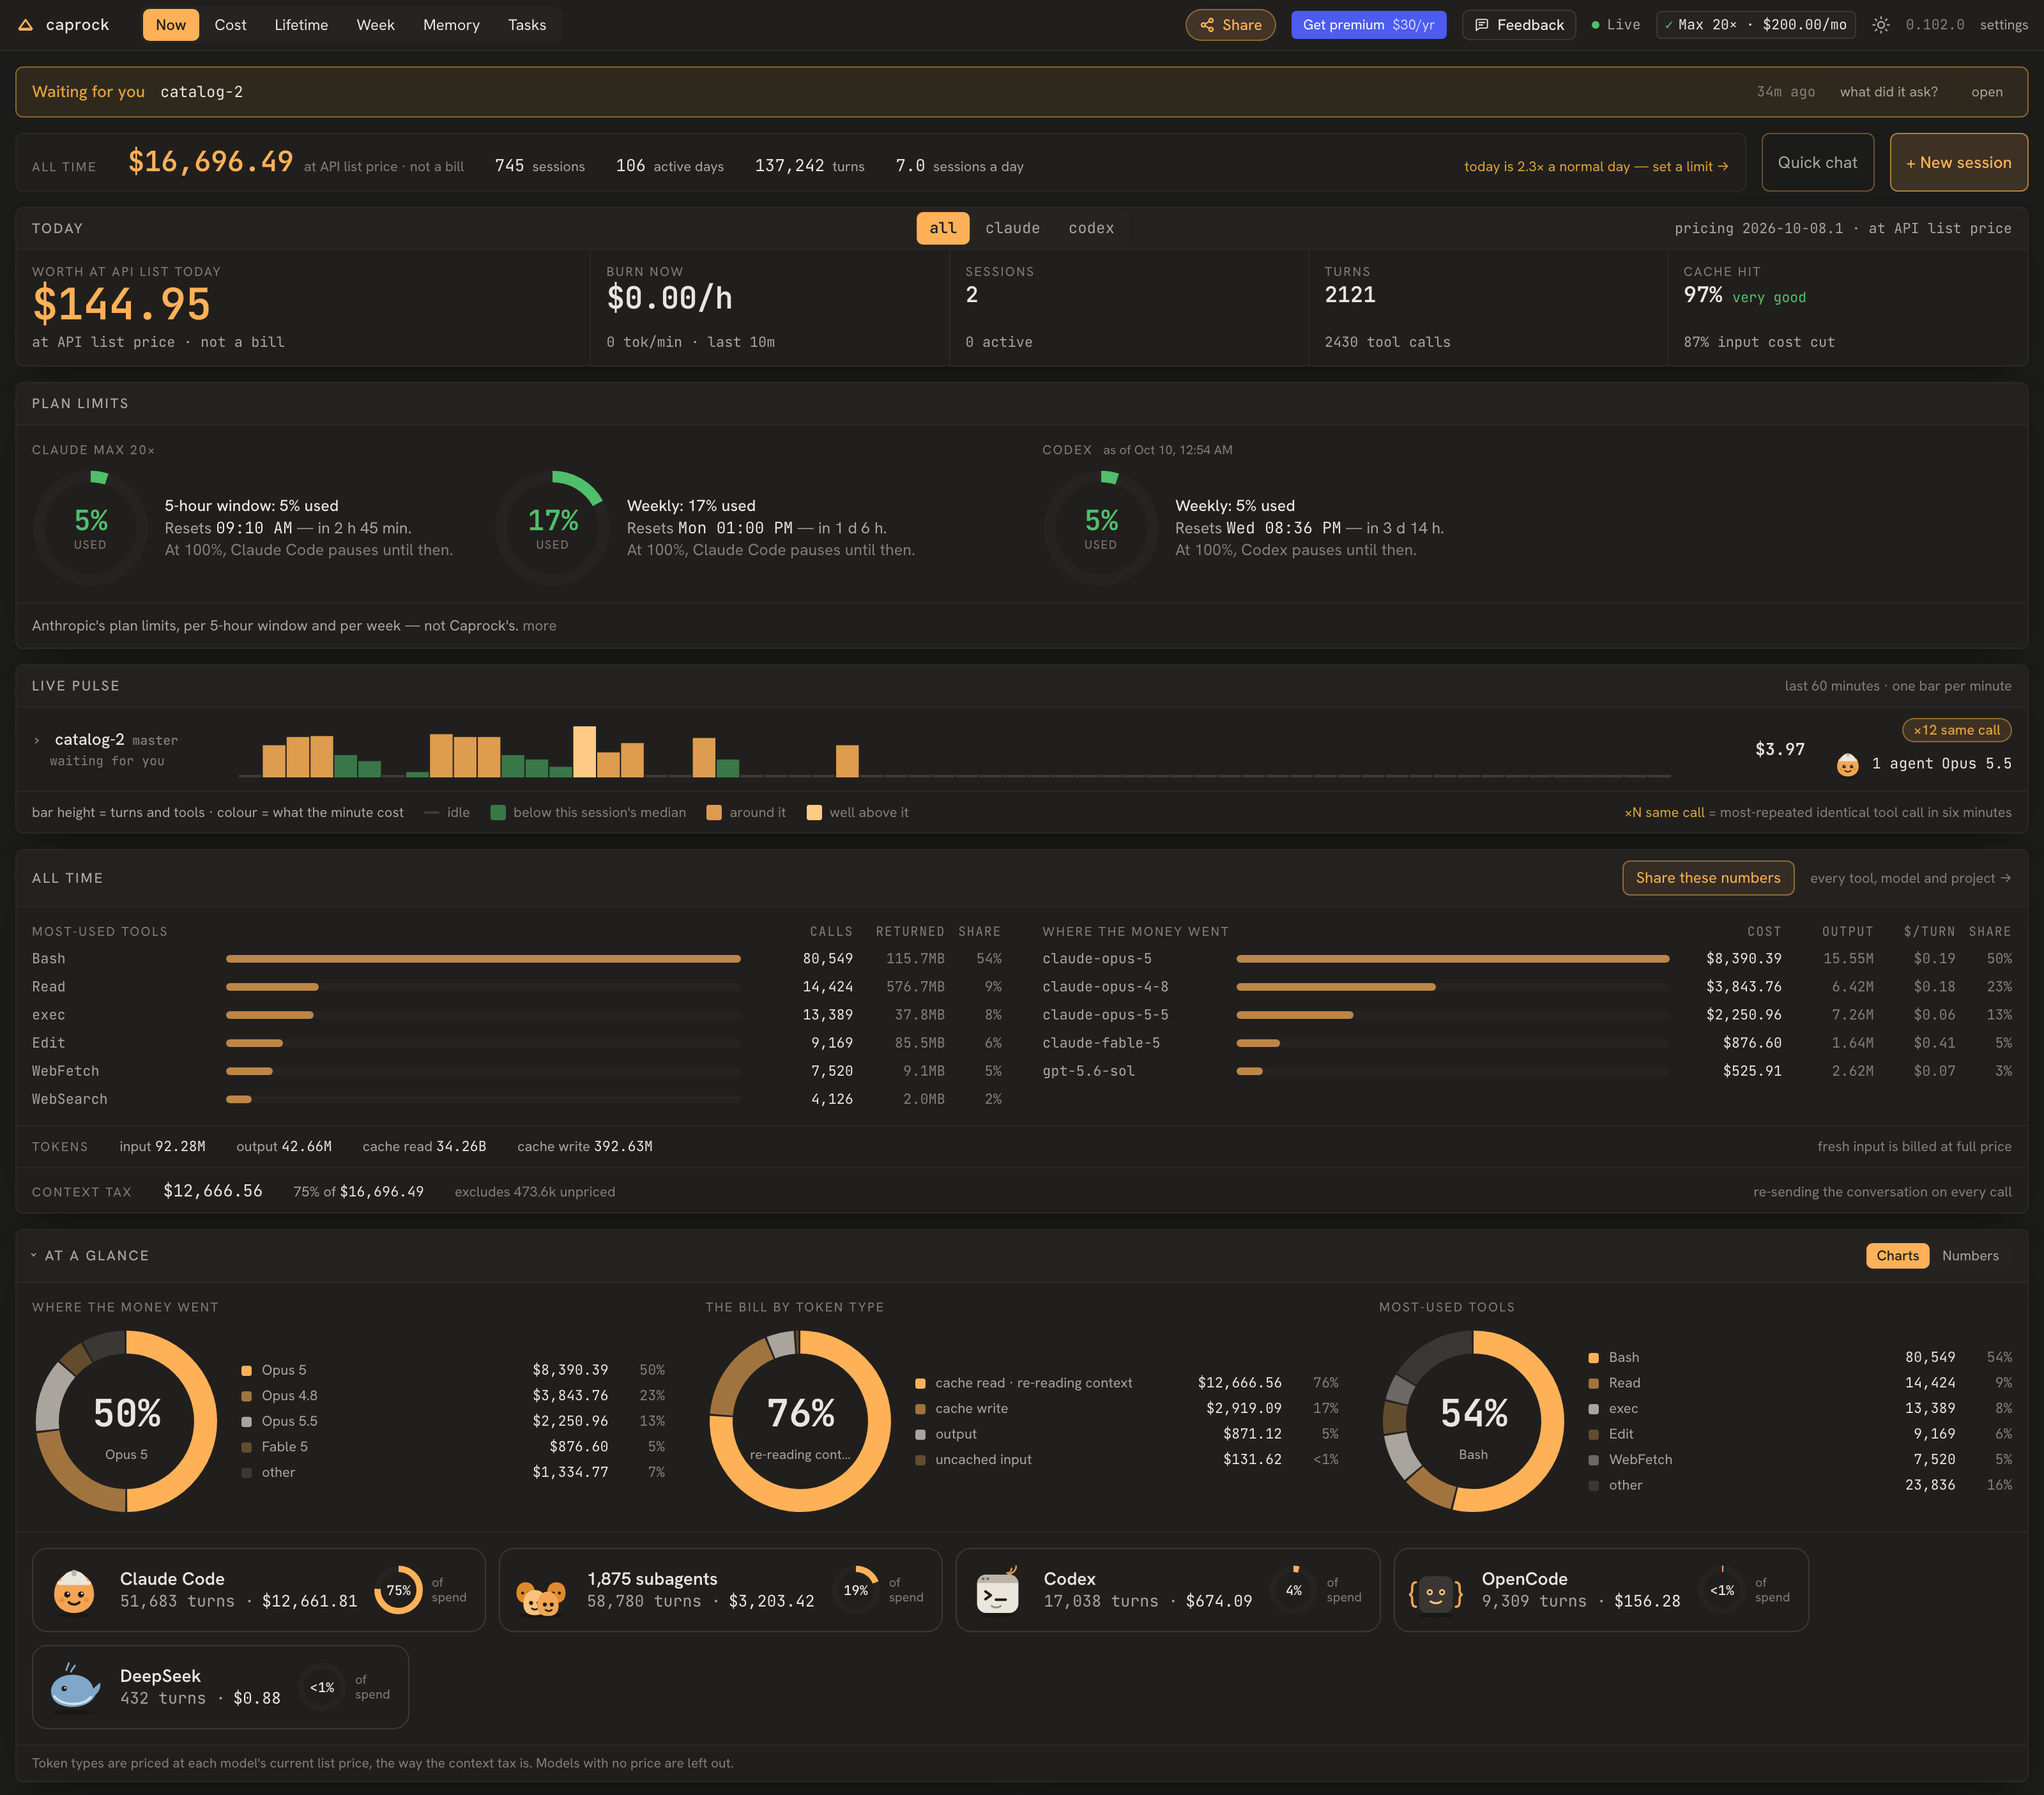
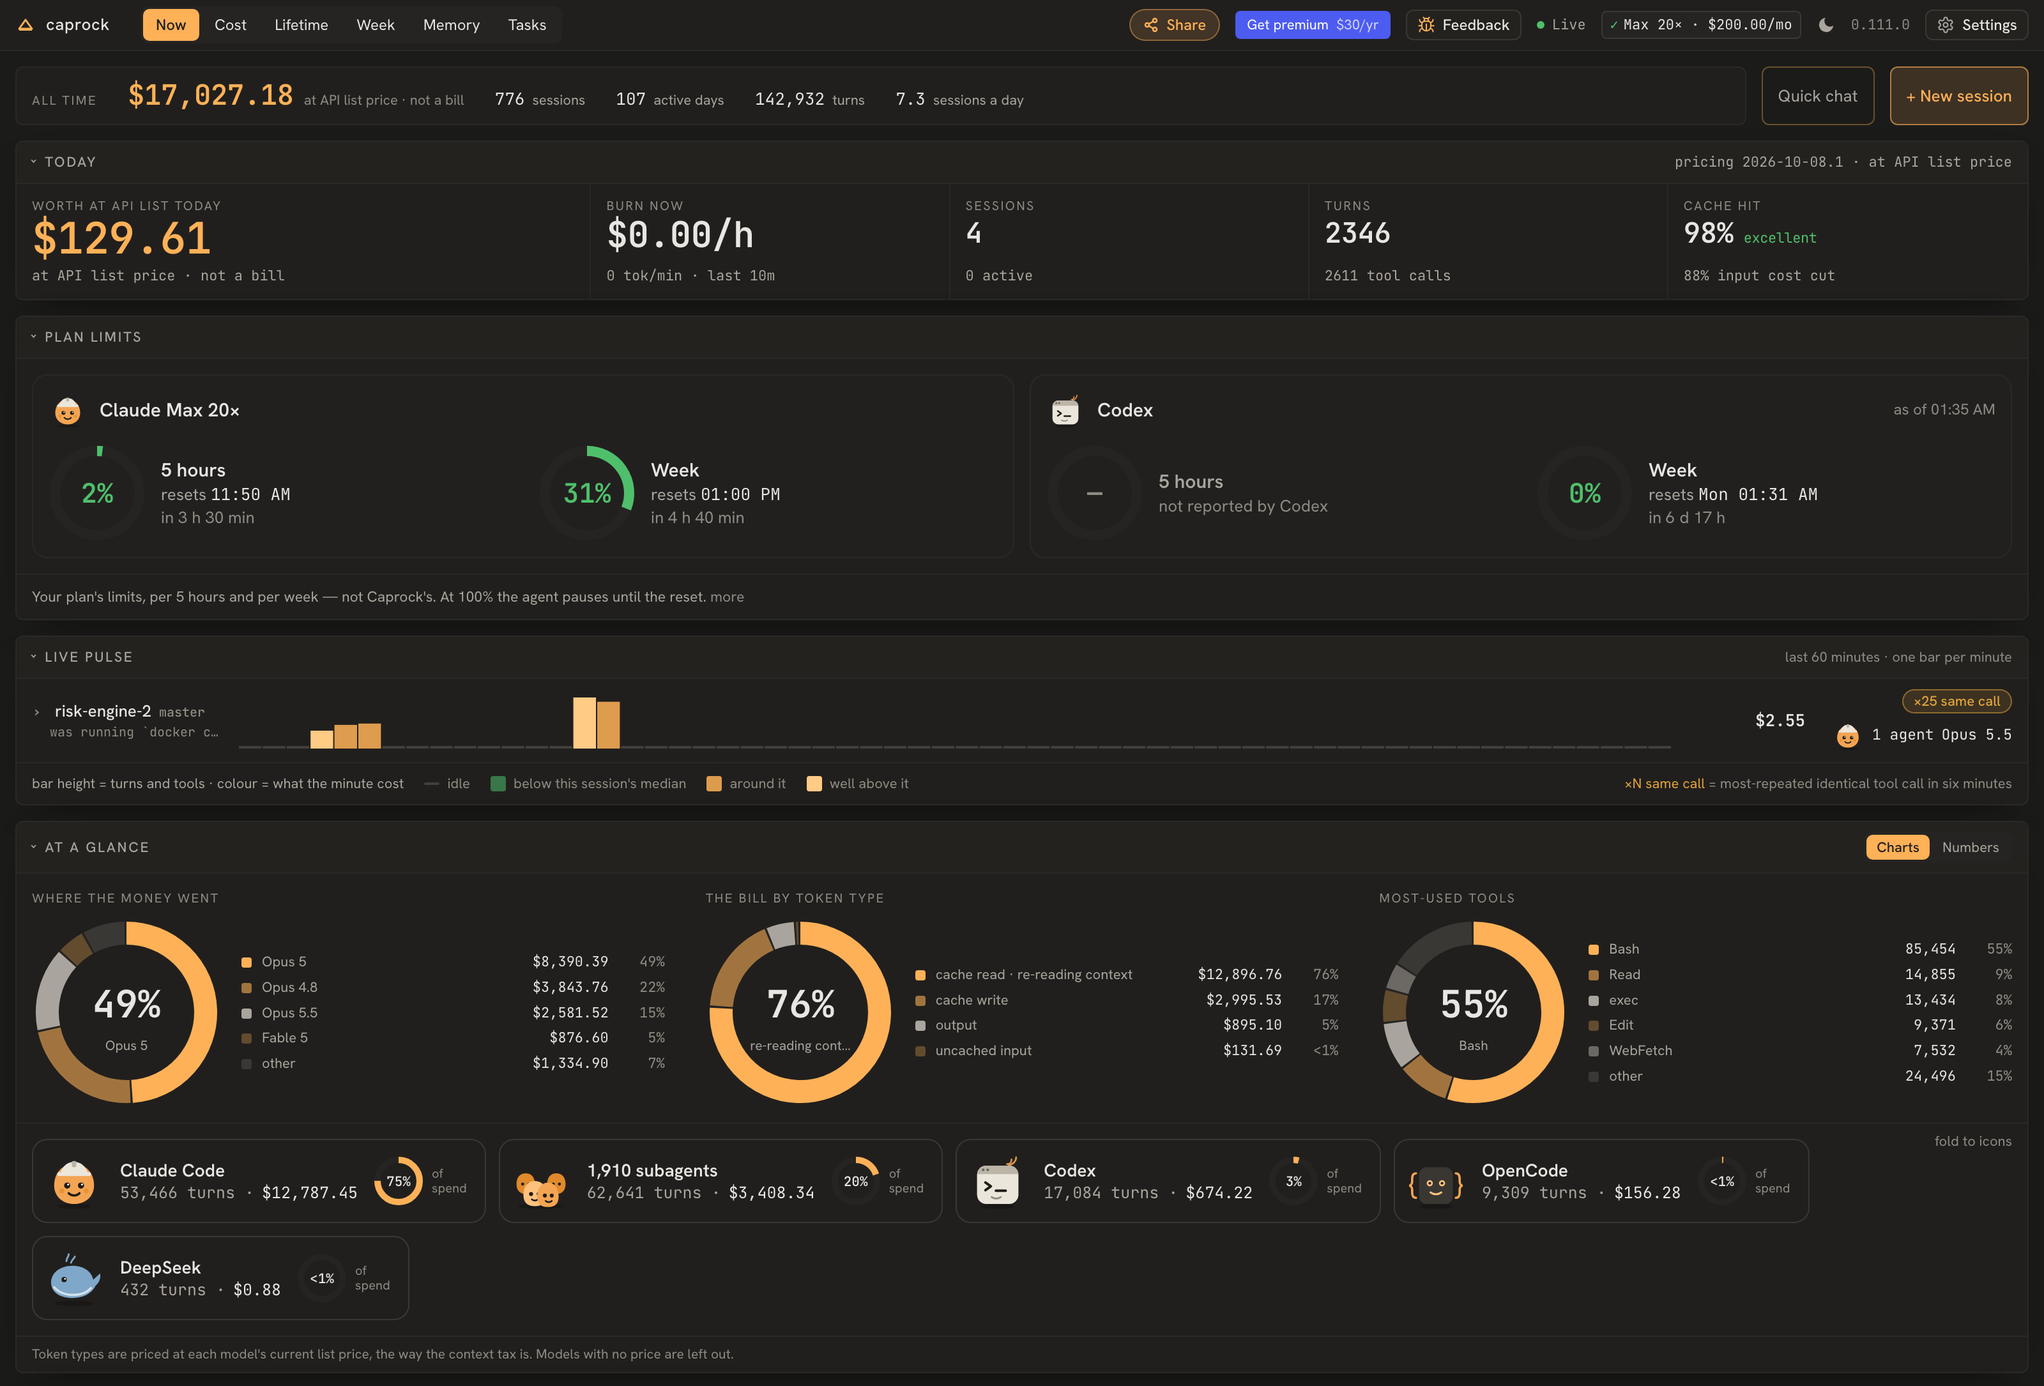
chore(shots): refresh for 0.111.0 (#474)
Dashboard shots (shot-now, shot-cost, shot-history, shot-tasks) and the
docs' feature crops (feat-breakdown, feat-cap, feat-limits, feat-projects)
retaken by scripts/shots.py and scripts/feature-shots.py against a scrubbed
copy of a real database, on a 0.111.0 build. The README hero and
docs/app.md's shot-app come from the site's demo stand (caprock-web
scripts/demo/app.sh): the agent at work with its cockpit, and an agent
with a shell split below it. shot-app was still the 0.77.0 window.

Three things the capture got wrong, fixed in the scripts:

- shots.py chose the theme by clicking the header's theme button. Since
  0.108.0 that button opens the palette menu, so the light pass never
  turned light. The palette is now set in storage before each load.
- Cost's donut row runs past the 1400px frame, and the panel snap left
  its headings as a stray strip along the bottom. Cost now ends at the row.
- Tasks prints the repository the daemon works on, which defaulted to the
  directory it started in: the user's home path on a public screenshot.
  refresh-shots.sh now points the shot daemon at a stand-in repository
  with --repo.

diff --git a/scripts/shots.py b/scripts/shots.py
@@ -356,7 +356,10 @@ WIDTH, HEIGHT = 1600, 1400
 MIN_H, PAD = 300, 28          # never crop tighter than this; breathing room below
 # A screen whose crop ends at a named panel rather than at the viewport. Now
 # runs far past 1400px, and the fixed height cut At a glance's donuts in half.
-CROP_TO = {"now": "at a glance"}
+# Cost's donut row runs past the 1400px frame, so the panel snap
+# fell back to the Totals edge and left the row's headings as a stray strip
+# along the bottom; it ends at the row instead.
+CROP_TO = {"now": "at a glance", "cost": "model mix"}
 
 
 def rpc(ws, method, params=None, _id=[0]):
@@ -478,6 +481,16 @@ def main():
 
         for theme in ("dark", "light"):
             for route, name in SHOTS:
+                # The theme is chosen before the load, in storage, because the
+                # load below is a real one and the app reads its palette as it
+                # boots. Clicking the header's theme button used to cycle light
+                # and dark; since 0.108.0 it opens a seven-palette menu, so the
+                # click opened the menu and the light pass never turned light.
+                # Dark Warm and Book are what each side shows on a fresh
+                # install (DEFAULT_DARK and DEFAULT_LIGHT in ui/src/lib/themes.ts).
+                mode = "book" if theme == "light" else "dark-warm"
+                evaluate(ws, "try { localStorage.setItem('caprock-theme-mode', '%s');"
+                             " localStorage.setItem('caprock-theme', '%s') } catch (e) {}" % (mode, theme))
                 # Navigating to the same document with a different hash does
                 # not reload it, and the dismissal flags above are only read as
                 # the document boots. Go by way of about:blank so each capture
@@ -488,22 +501,6 @@ def main():
                 time.sleep(0.3)
                 rpc(ws, "Page.navigate", {"url": f"{BASE}/#/{route}"})
                 time.sleep(1.5)
-                # Toggle to the theme we want by clicking the control, which is
-                # what a person does. Writing to storage only takes effect on
-                # the next document load, and a hash navigation is not one.
-                for _ in range(3):
-                    cur = evaluate(ws, "document.documentElement.getAttribute('data-theme')")
-                    if cur == theme:
-                        break
-                    evaluate(ws, """
-                      (() => {
-                        const b = [...document.querySelectorAll('button')].find(
-                          (x) => (x.getAttribute('aria-label') || '').includes('theme'));
-                        if (b) b.click();
-                      })()
-                    """)
-                    time.sleep(0.8)
-
 
                 for _ in range(40):
                     time.sleep(0.4)

diff --git a/docs/app.md b/docs/app.md
@@ -6,7 +6,7 @@ already measures, in one window. It talks to the same local daemon as the
 browser dashboard and the phone, so a session started in one is live in the
 others. Installing it: [install-app.md](install-app.md).
 
-![The app: projects and their sessions on the left, a shell tab on the right, plan limits and today's spend along the bottom](shot-app.png)
+![The app: today's spend, the plan windows and the projects with their sessions on the left; on the right a Claude Code session with a shell split below it](shot-app.png)
 
 *Demo projects and sessions, made up for this picture.*
 
